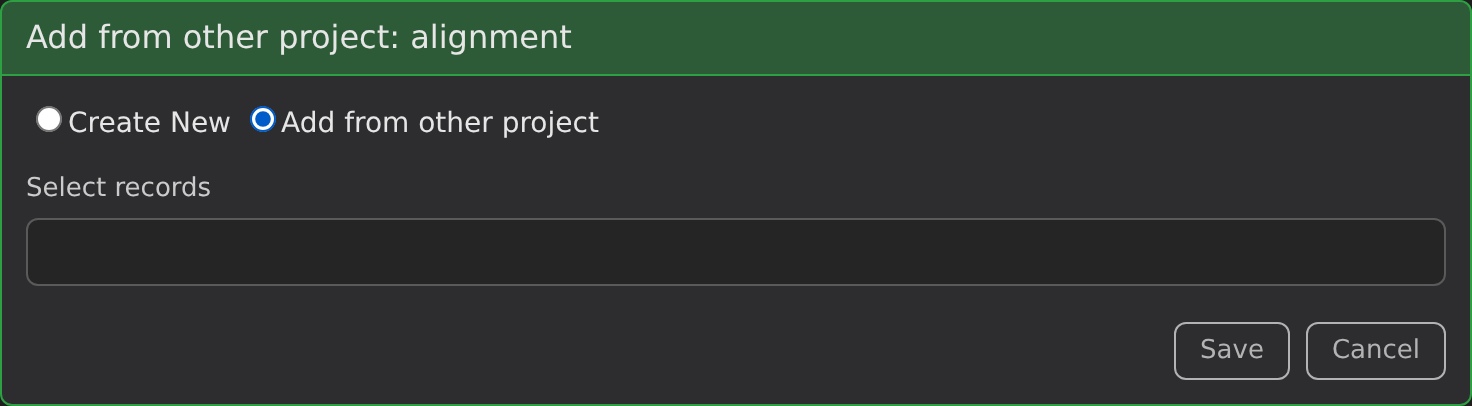
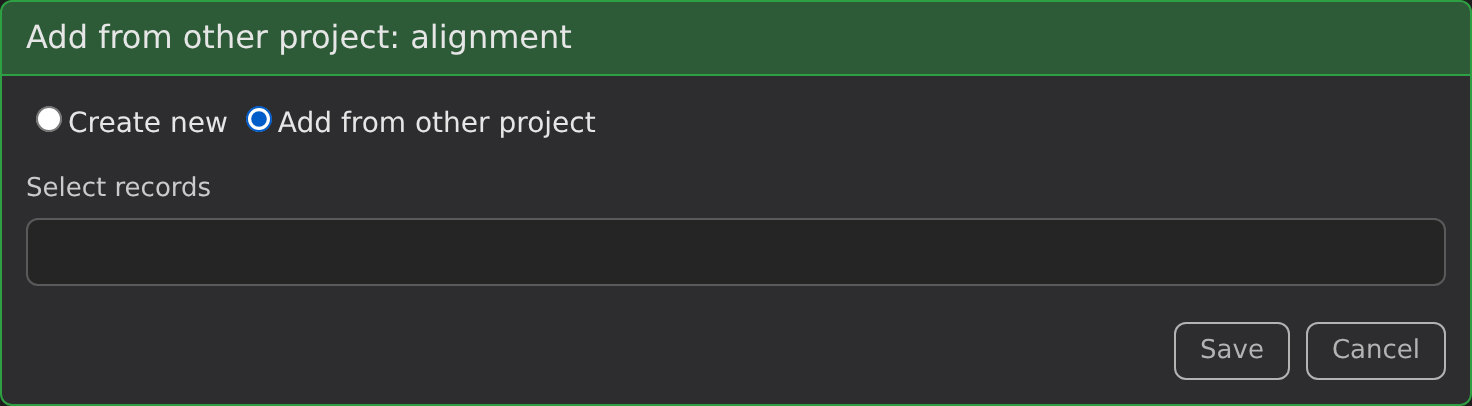
Lowercase "Create new" for capitalization consistency

Changed region(s): [[0.0938, 0.266, 0.4062, 0.3547]]

diff --git a/docs/pages/steps.md b/docs/pages/steps.md
@@ -36,7 +36,7 @@ Use the **+** button in a step table header to add a step of that type.
 
 When adding a step, you can choose between:
 
-- **Create New** — create a brand-new step definition
+- **Create new** — create a brand-new step definition
 - **Add from other project** — assign an already-existing step to the current project
 
 ![The add-step form switched to Add from other project, showing how an existing step can be linked into the current project.](screenshots/light/steps-add-from-other-project-form.png)
